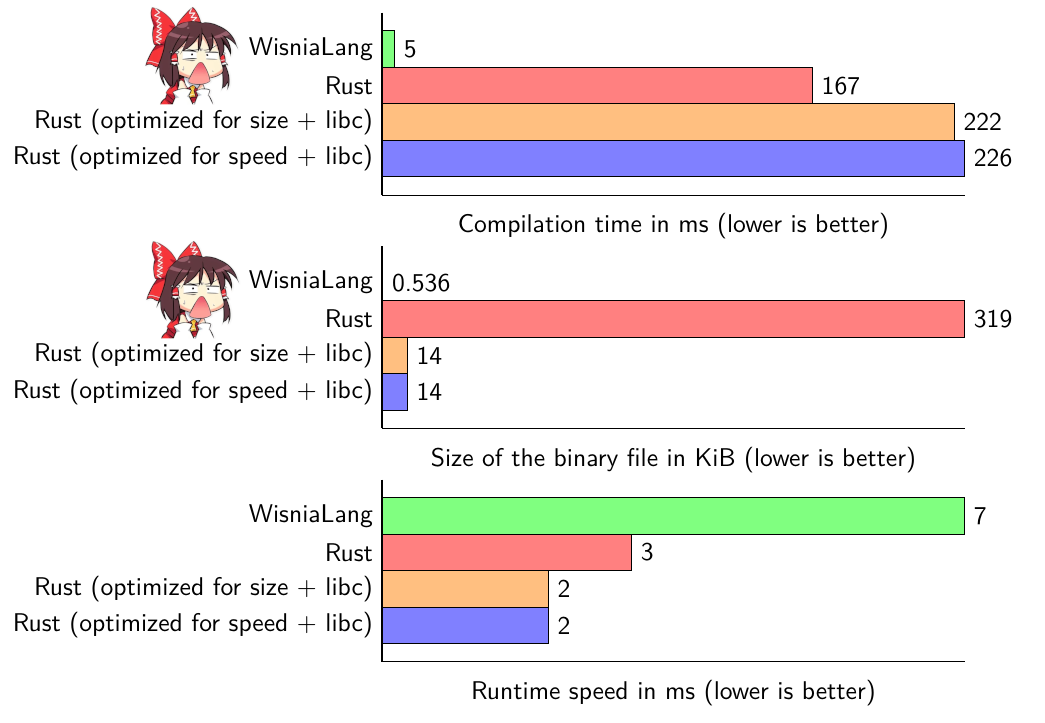
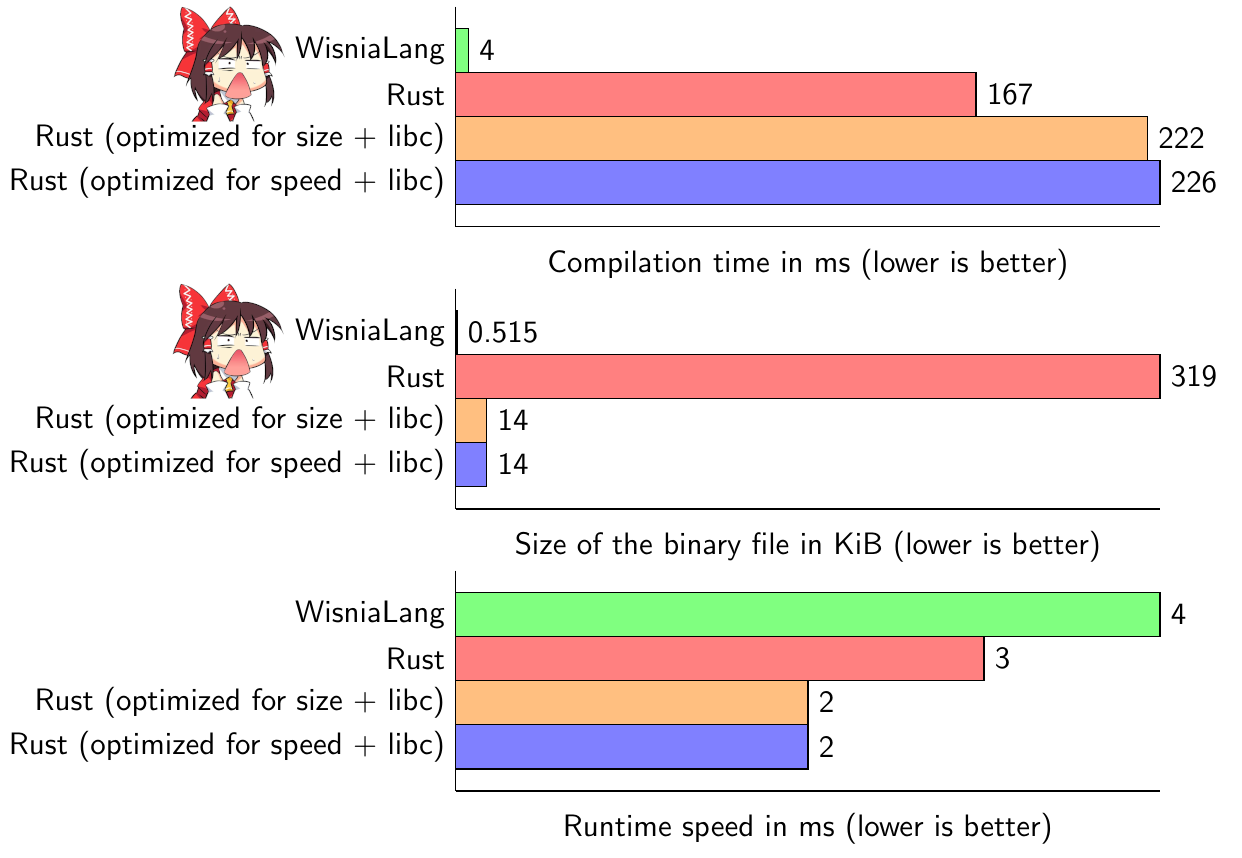
UPD: Benchmark results.

Changed region(s): [[0.0, 0.0, 0.9799, 0.3347], [0.0, 0.6086, 0.9493, 0.9737], [0.0, 0.3347, 0.9799, 0.5781]]

diff --git a/content/post/wisnialang-compiler-project.md b/content/post/wisnialang-compiler-project.md
@@ -2,7 +2,7 @@
 title: "WisniaLang: Compiler Project"
 date: 2022-10-17T20:55:19-05:00
 publishdate: 2022-10-17
-lastmod: 2022-11-23
+lastmod: 2022-11-27
 draft: false
 tags: ["c++", "elf", "compiler", "llvm", "rust"]
 ---
@@ -83,24 +83,24 @@ Let us now compare the final size of the produced binaries, as well as the time 
 ```bash
 ┌─[tautvydas][kagamin][~/tests]
 └─▪ time ./wisnia test.wsn
-real    0m0.005s
-user    0m0.003s
-sys     0m0.002s
+real    0m0.004s
+user    0m0.002s
+sys     0m0.001s
 
 ┌─[tautvydas][kagamin][~/tests]
-└─▪ ls -lh a.out 
--rwxrwxrwx 1 tautvydas tautvydas 549 Nov 13 15:25 a.out
+└─▪ ls -lh a.out
+-rwxrwxrwx 1 tautvydas tautvydas 528 Nov 27 17:20 a.out
 
 ┌─[tautvydas][kagamin][~/tests]
 └─▪ time ./a.out
 3000 2997 2994 2991 (omitted by the author)
 
-real    0m0.007s
+real    0m0.004s
 user    0m0.000s
-sys     0m0.007s
+sys     0m0.004s
 ```
 
-The example program was compiled into a `549`-byte binary file in just `5` milliseconds by our compiler, which took `7` milliseconds to run.
+The example program was compiled into a `528`-byte binary file in just `4` milliseconds by our compiler, which took `4` milliseconds to run.
 
 ### Rust
 
